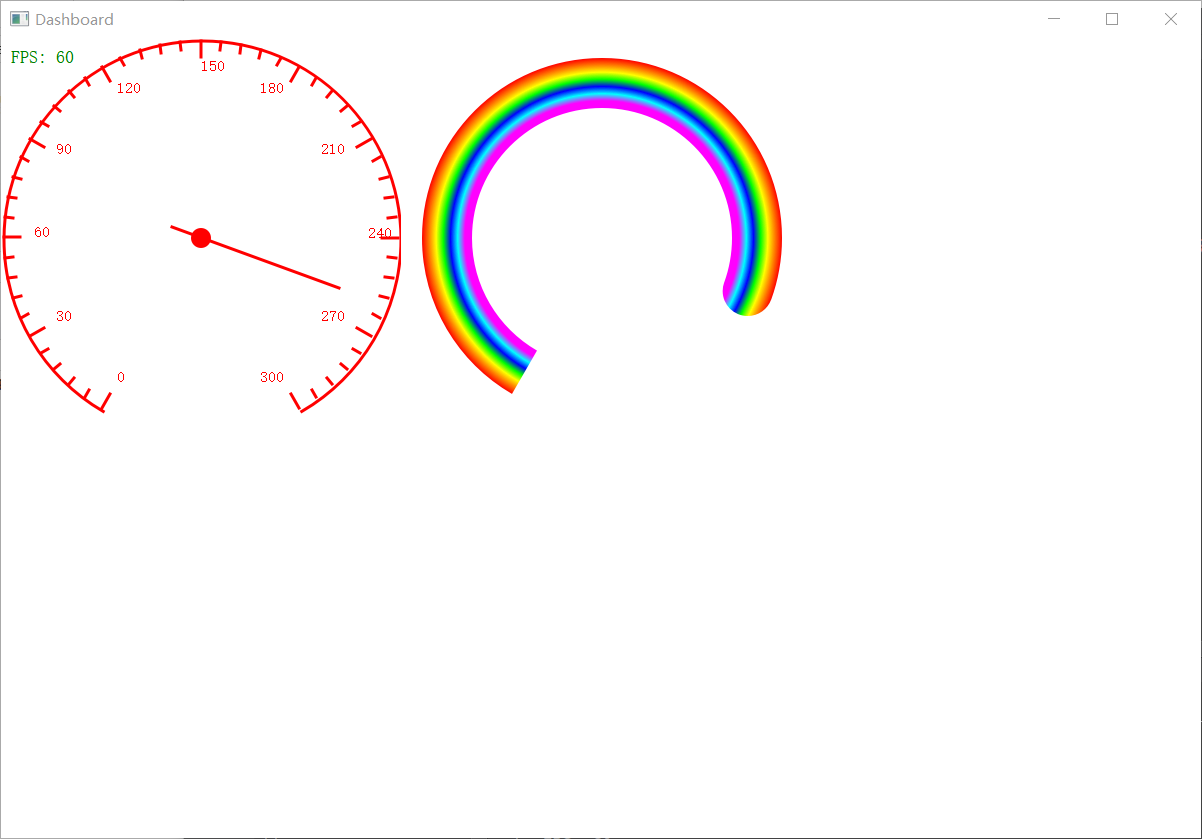
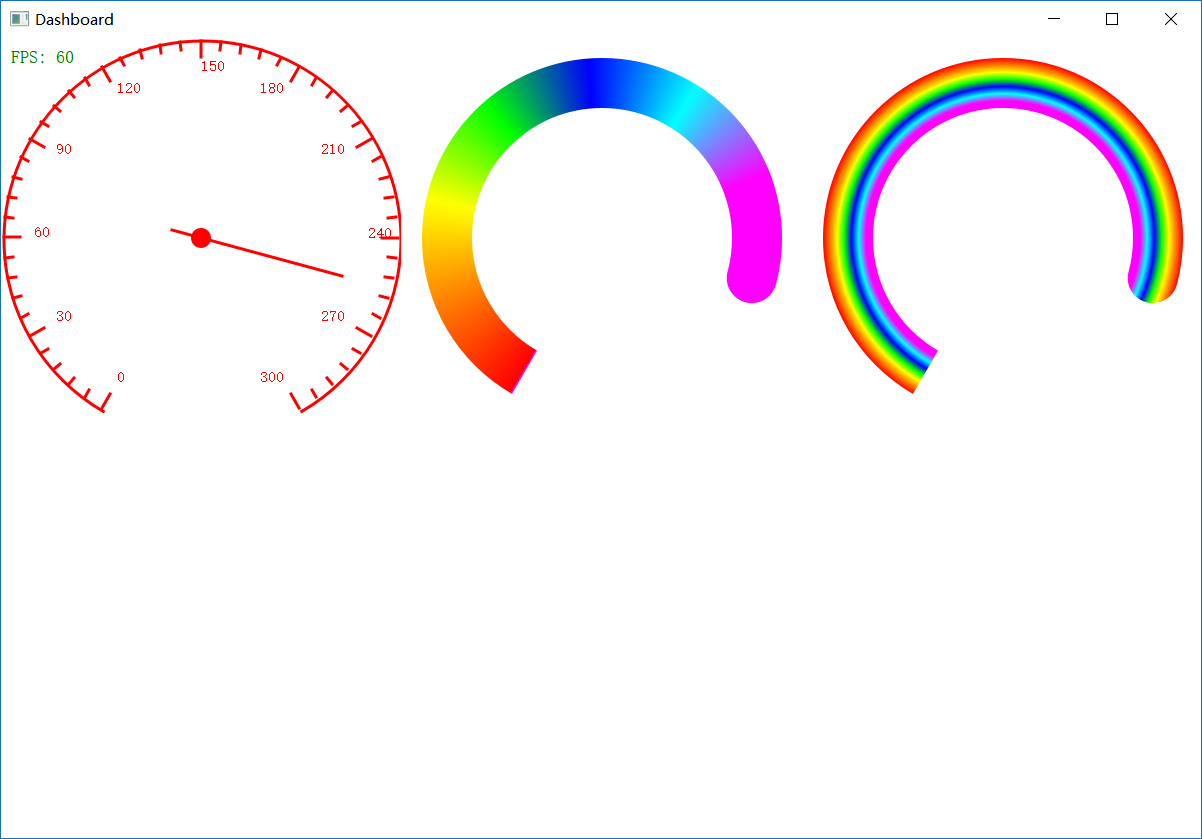
Ringboard提供两种渐变

diff --git a/main.qml b/main.qml
@@ -29,13 +29,6 @@ Item {
         maxValue: 300
         value: root.value
     }
-//    Rectangle {
-//        x: 401
-//        y: 0
-//        width: 400
-//        height: 400
-//        color: "black"
-//    }
     Ringboard {
         x: 401
         y: 0
@@ -46,6 +39,19 @@ Item {
         radiusInner: 130
         radiusOuter: 180
         roundConer: true
+        gradient: Ringboard.ConicalGradiant
+    }
+    Ringboard {
+        x: 802
+        y: 0
+        width: 400
+        height: 400
+        startAngle: 240
+        spanAngle: -root.value
+        radiusInner: 130
+        radiusOuter: 180
+        roundConer: true
+        gradient: Ringboard.RadialGradiant
     }
     Item {
         id: fpsItem

diff --git a/Ringboard.cpp b/Ringboard.cpp
@@ -2,7 +2,7 @@
 #include <QtMath>
 #include <QtGlobal>
 #include <QRadialGradient>
-
+#include <QConicalGradient>
 Ringboard::Ringboard() {
     connect(&mTimer, &QTimer::timeout, this, &Ringboard::timeoutSlot);
     mTimer.start(1000 / 60);
@@ -14,6 +14,10 @@ Ringboard::Ringboard() {
             << QColor(  0,   0, 255)
             << QColor(  0, 255, 255)
             << QColor(255,   0, 255);
+}
+
+void Ringboard::timeoutSlot() {
+    update();
 }
 
 void Ringboard::paint(QPainter *painter) {
@@ -47,24 +51,44 @@ void Ringboard::paint(QPainter *painter) {
                startAngle() + spanAngle(), - spanAngle());
     //闭合path
     path.closeSubpath();
-
-    //    QBrush brush;
-    //    brush.setColor(Qt::green);
-    //    brush.setStyle(Qt::SolidPattern);
-
-    QRadialGradient gradiant;
-    gradiant.setCenter(cx, cy);
-    gradiant.setCenterRadius(radiusInner());
-    gradiant.setRadius(radiusOuter());
-    gradiant.setFocalPoint(cx, cy);
-    qreal len = radiusOuter() - radiusInner();
     int colorCount = mColors.count();
-    qreal percentStep = (len / radiusOuter()) / colorCount;
-    for (int i = 0; i < colorCount; ++i) {
-        gradiant.setColorAt(1.0 - i * percentStep, mColors.at(i));
+
+    //单一颜色brush
+    if (gradient() == RadialGradiant) {
+        //辐射渐变
+        QRadialGradient grad;
+        grad.setCenter(cx, cy);
+        grad.setCenterRadius(radiusInner());
+        grad.setRadius(radiusOuter());
+        grad.setFocalPoint(cx, cy);
+        qreal len = radiusOuter() - radiusInner();
+        qreal percentStep = (len / radiusOuter()) / colorCount;
+        for (int i = 0; i < colorCount; ++i) {
+            grad.setColorAt(1.0 - i * percentStep, mColors.at(i));
+        }
+        QBrush brush(grad);
+        painter->fillPath(path, brush);
+    } else if (gradient() == ConicalGradiant) {
+
+        //角度渐变
+        QConicalGradient grad;
+        grad.setCenter(cx, cy);
+        grad.setAngle(startAngle());
+        qreal maxPercent = fabs(spanAngle() / 360.0);
+        qreal percentStep = maxPercent / colorCount;
+
+        for (int i = 0; i < colorCount; ++i) {
+            grad.setColorAt(1.0 - i * percentStep, mColors.at(i));
+        }
+        QBrush brush(grad);
+        painter->fillPath(path, brush);
+    } else {
+        QBrush brush;
+        brush.setColor(Qt::green);
+        brush.setStyle(Qt::SolidPattern);
+
+        painter->fillPath(path, brush);
     }
-    QBrush brush(gradiant);
-    painter->fillPath(path, brush);
     painter->restore();
 }
 
@@ -88,8 +112,8 @@ bool Ringboard::roundConer() const {
     return mRoundConer;
 }
 
-void Ringboard::timeoutSlot() {
-    update();
+Ringboard::Gradient Ringboard::gradient() const {
+    return mGradient;
 }
 
 void Ringboard::setStartAngle(qreal startAngle) {
@@ -130,4 +154,12 @@ void Ringboard::setRoundConer(bool roundConer) {
 
     mRoundConer = roundConer;
     emit roundConerChanged(mRoundConer);
+}
+
+void Ringboard::setGradient(Ringboard::Gradient gradient) {
+    if (mGradient == gradient)
+        return;
+
+    mGradient = gradient;
+    emit gradientChanged(mGradient);
 }

diff --git a/Ringboard.h b/Ringboard.h
@@ -18,7 +18,16 @@ class Ringboard : public QQuickPaintedItem {
     Q_PROPERTY(qreal radiusOuter READ radiusOuter WRITE setRadiusOuter NOTIFY radiusOuterChanged)
     //是否使用圆角
     Q_PROPERTY(bool roundConer READ roundConer WRITE setRoundConer NOTIFY roundConerChanged)
+
+    Q_PROPERTY(Gradient gradient READ gradient WRITE setGradient NOTIFY gradientChanged)
 public:
+    enum Gradient {
+        NoGradient = 0,
+        RadialGradiant,
+        ConicalGradiant
+    };
+    Q_ENUMS(Gradient)
+
     Ringboard();
 
     void paint(QPainter *painter) override;
@@ -33,6 +42,8 @@ public:
 
     bool roundConer() const;
 
+    Gradient gradient() const;
+
 public slots:
     void timeoutSlot();
 
@@ -46,6 +57,8 @@ public slots:
 
     void setRoundConer(bool roundConer);
 
+    void setGradient(Gradient gradient);
+
 signals:
     void startAngleChanged(qreal startAngle);
 
@@ -57,6 +70,8 @@ signals:
 
     void roundConerChanged(bool roundConer);
 
+    void gradientChanged(Gradient gradient);
+
 private:
     QTimer mTimer;
     qreal mStartAngle;
@@ -65,5 +80,6 @@ private:
     qreal mRadiusOuter;
     bool mRoundConer = false;
     QList<QColor> mColors;
+    Gradient mGradient = NoGradient;
 };
 
